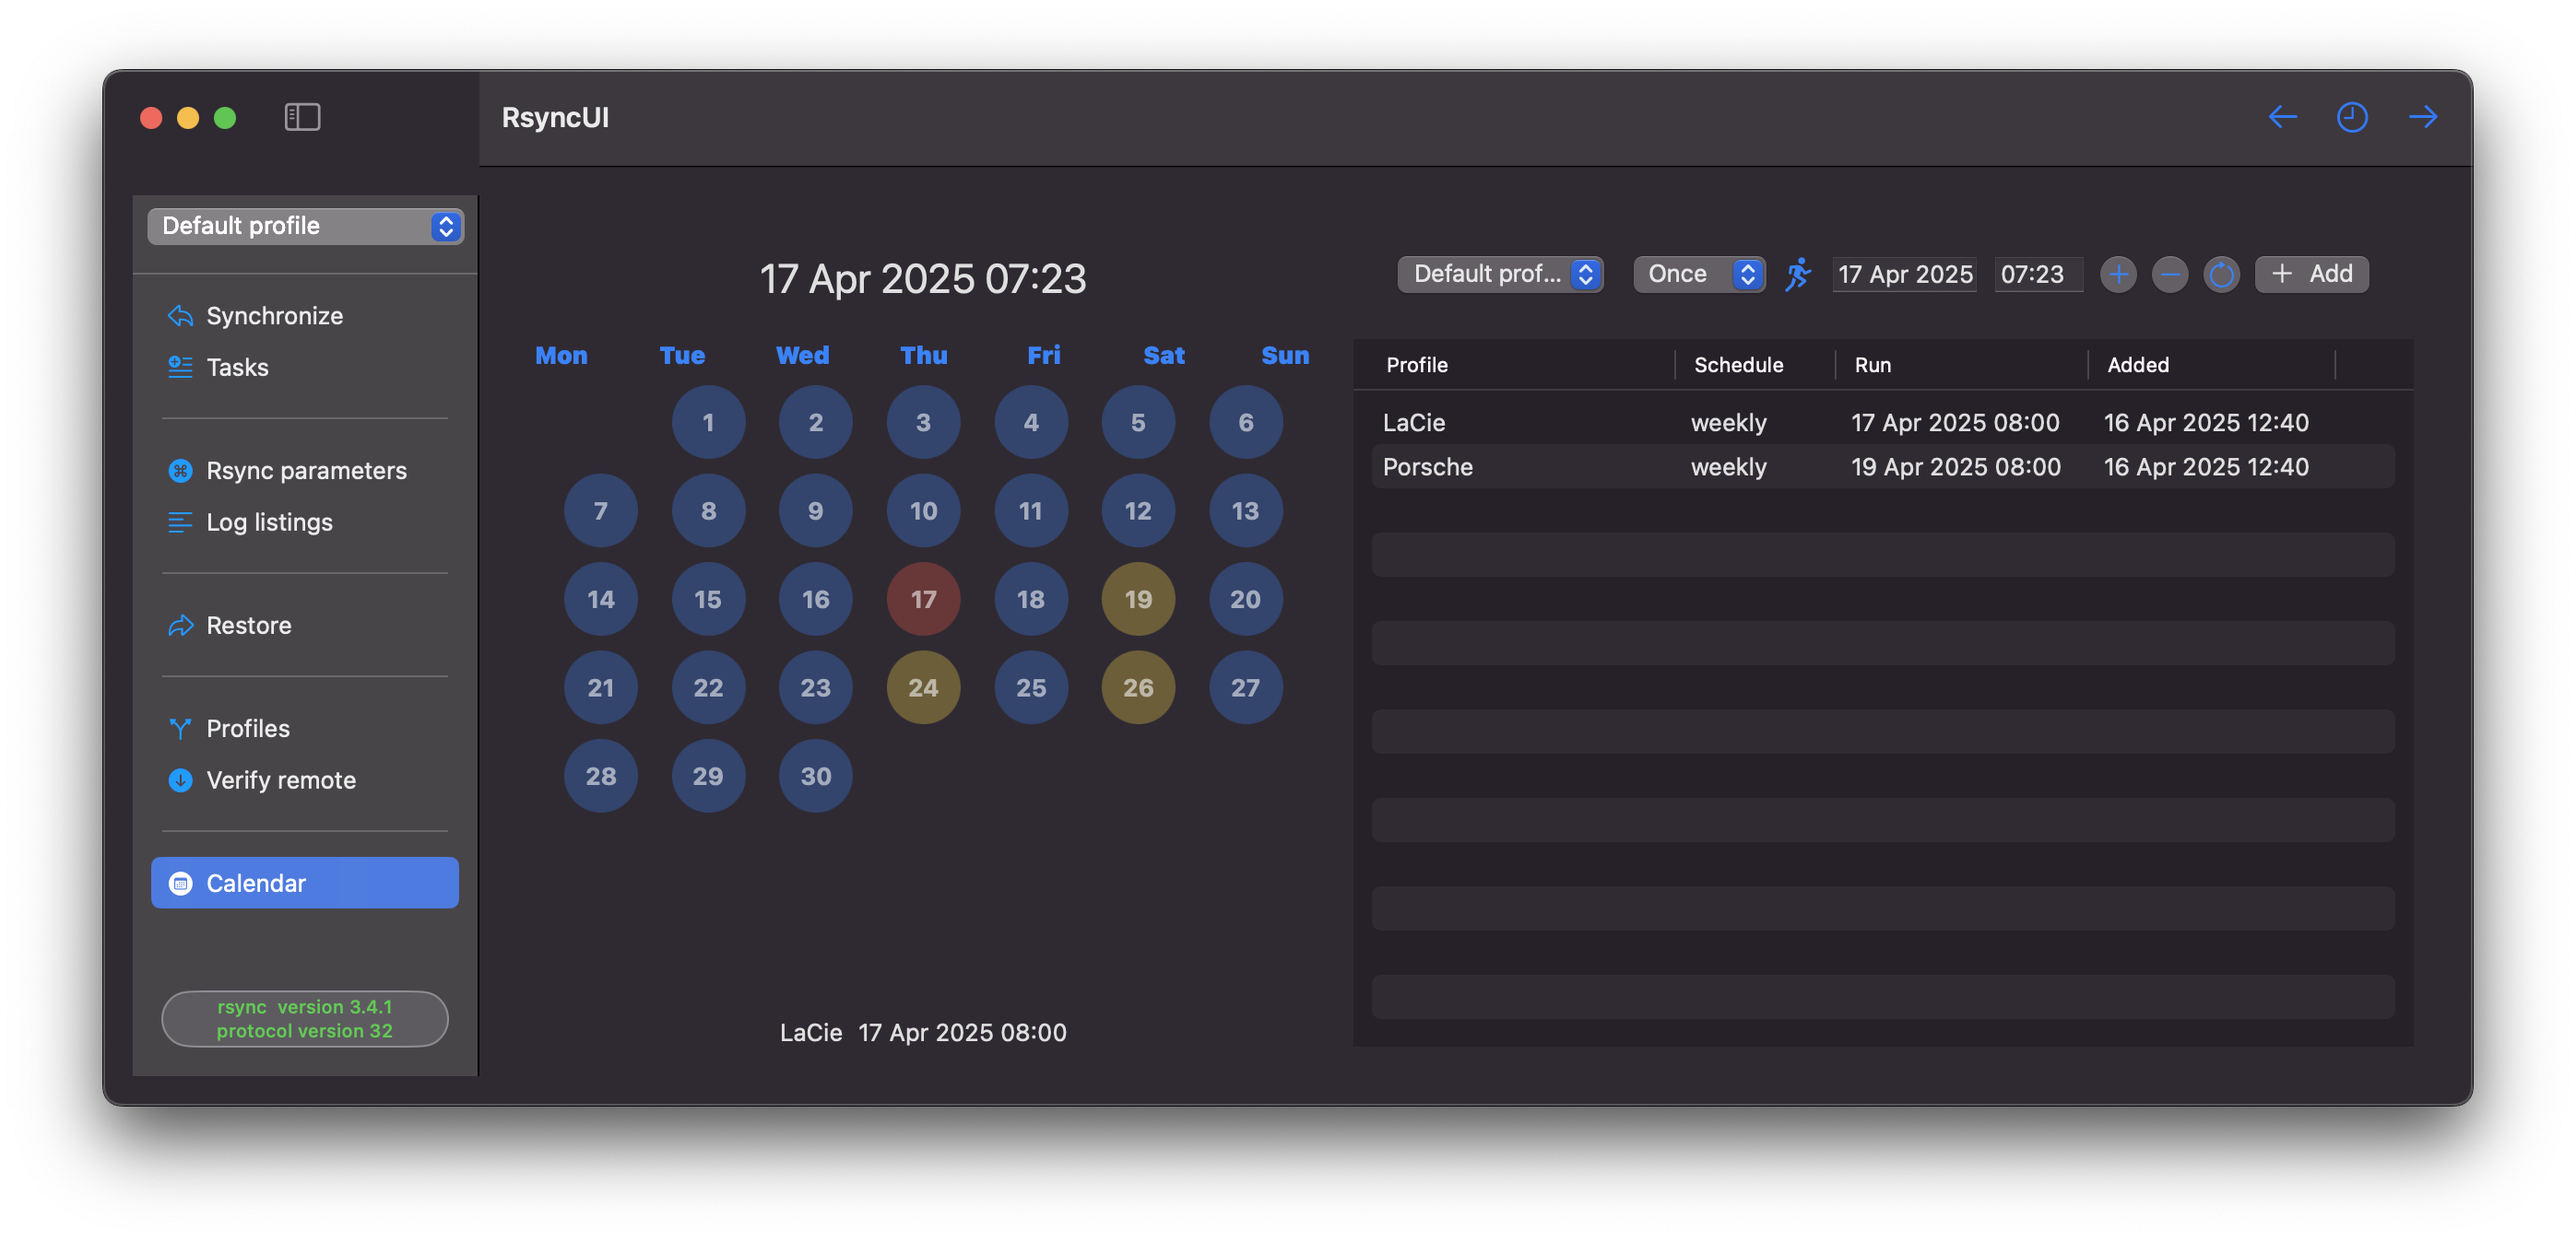
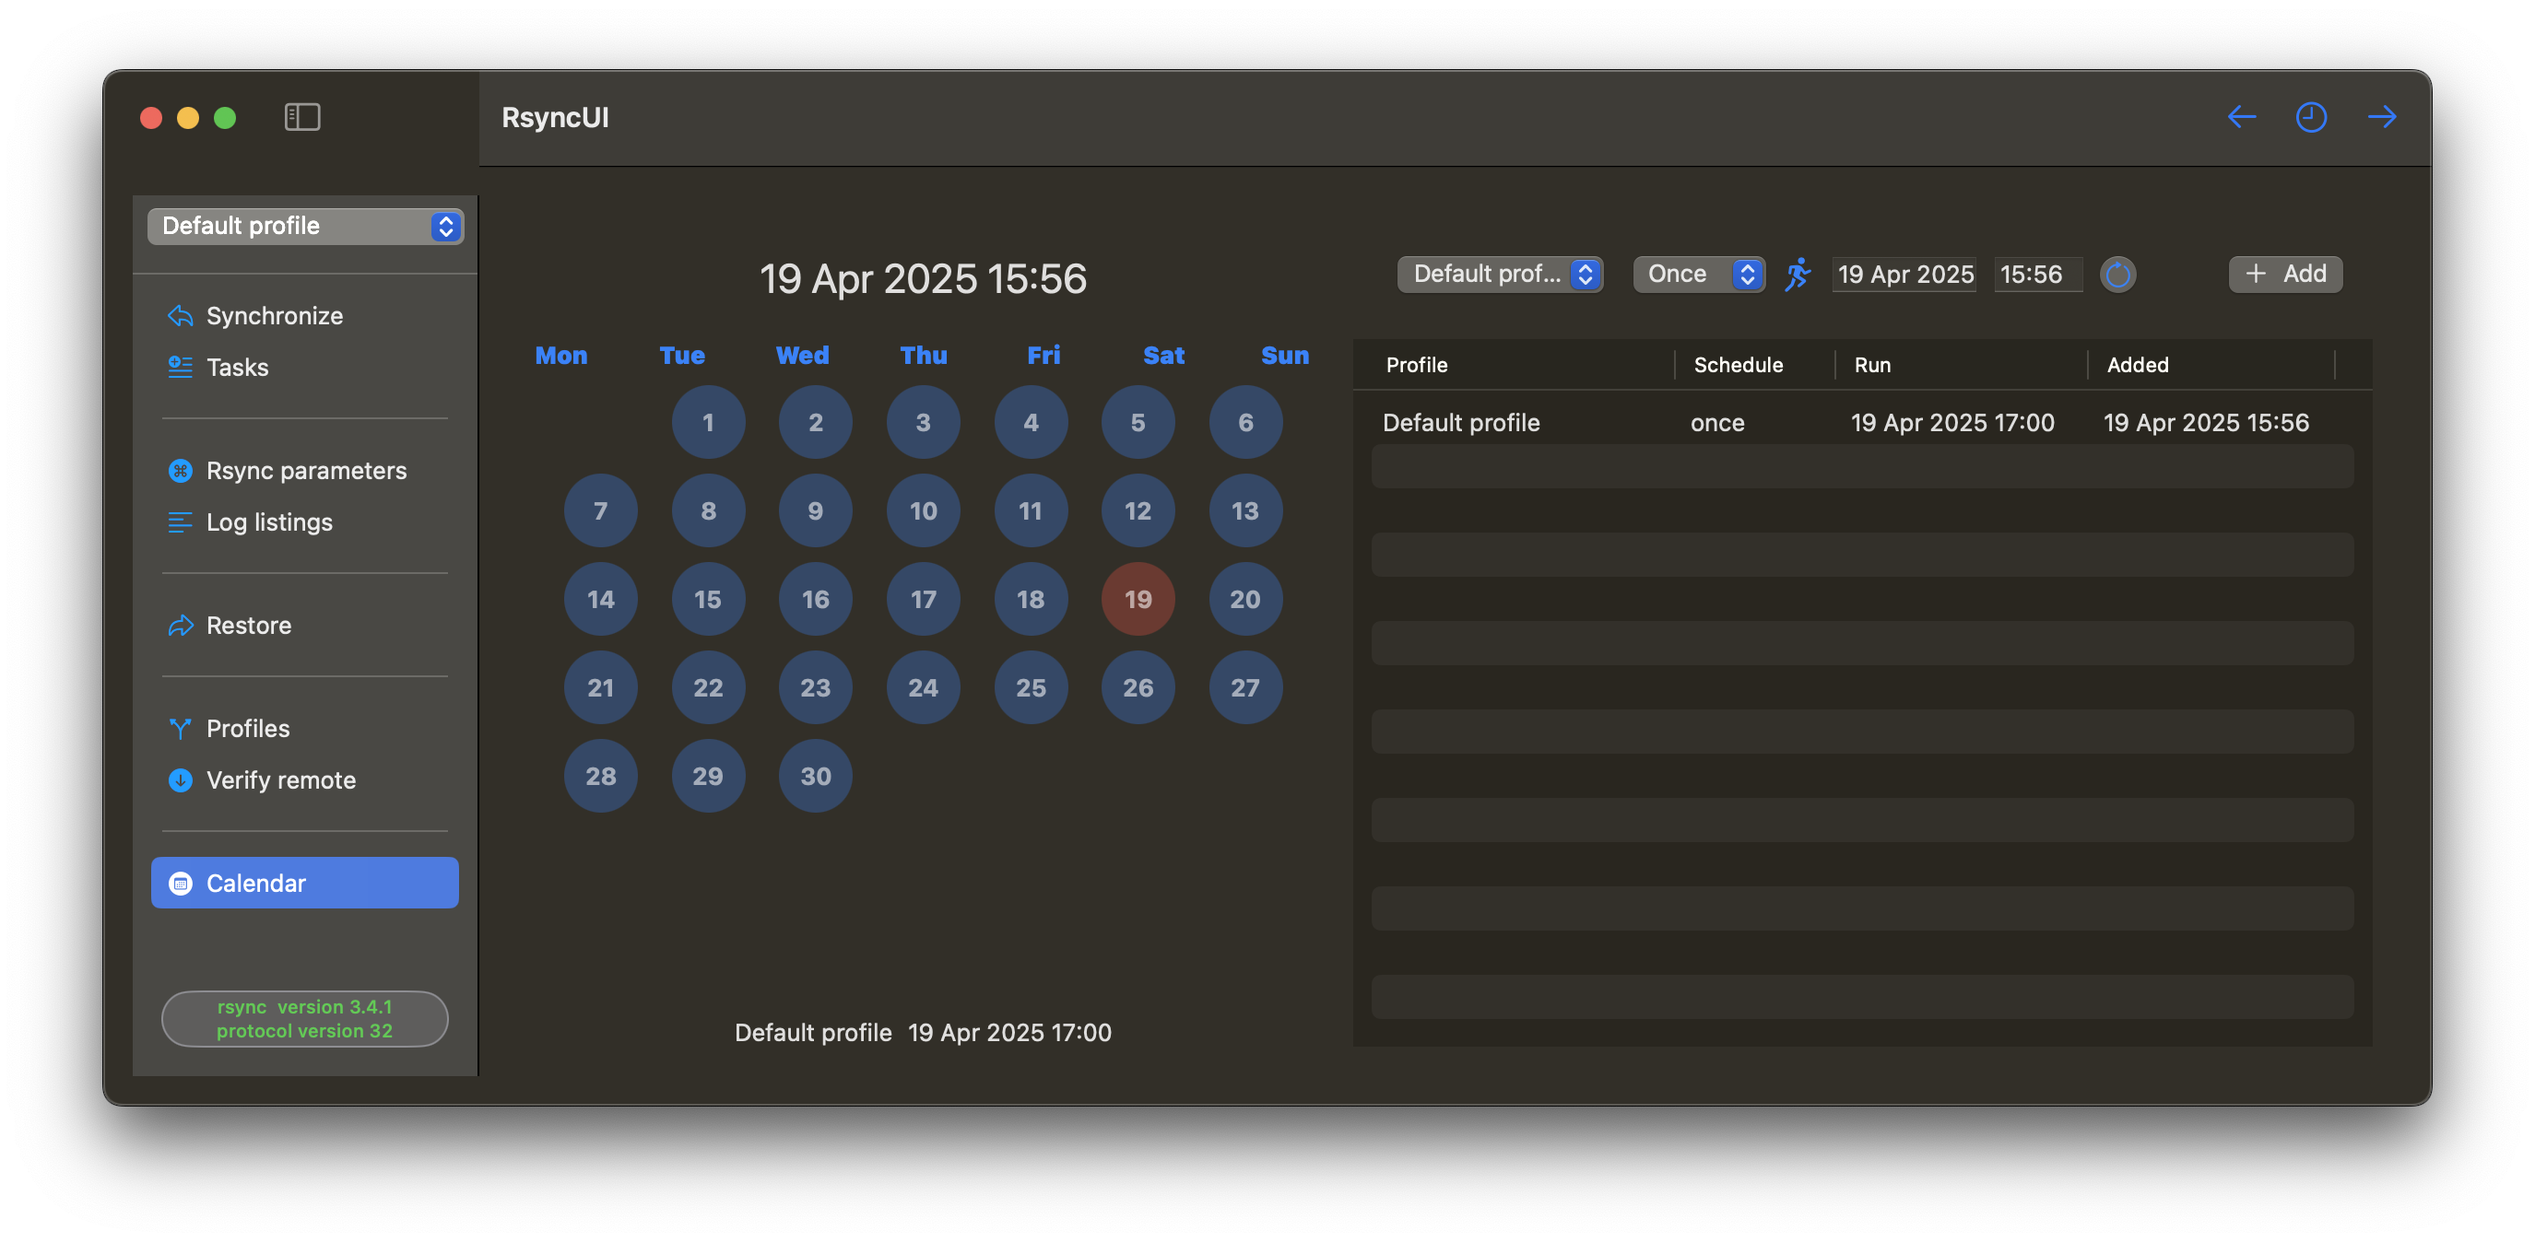
update

diff --git a/content/en/blog/Version250.md b/content/en/blog/Version250.md
@@ -1,7 +1,7 @@
 +++
 author = "Thomas Evensen"
 title = "Version 2.5.0"
-date = "2025-04-18"
+date = "2025-04-19"
 tags = ["changelog","version 2.5.0"]
 categories = ["changelog"]
 +++
@@ -25,5 +25,11 @@ In the process of developing the calendar and schedule functionalities for Rsync
 Consequently, the Calendar application *may* also serve as *a standalone* schedule application for RsyncUI. The Calendar application will be released as a pilot, demonstrating the scheduling of synchronization of tasks. The primary focus is the user interface (GUI) aspect. 
 
 {{< figure src="/images/250/calendarapp.png" alt="" position="center" style="border-radius: 8px;" >}}
+
+##### Try the Calendar App
+
+You may consider try the Calendar application. It is compatible with the most recent version of RsyncUI. The Calendar application will initiate an estimate and synchronize tasks by URL. The Calendar application is signed and notarized. Schedules to be deleted can be selected and the backspace button pressed. After a task is executed, it will automatically be removed from the subsequent task list.
+
+If you try out the [Calendar app](https://github.com/rsyncOSX/CalendarRsyncUI), please create an issue or notify me by email if you have any comments. 
 
 
